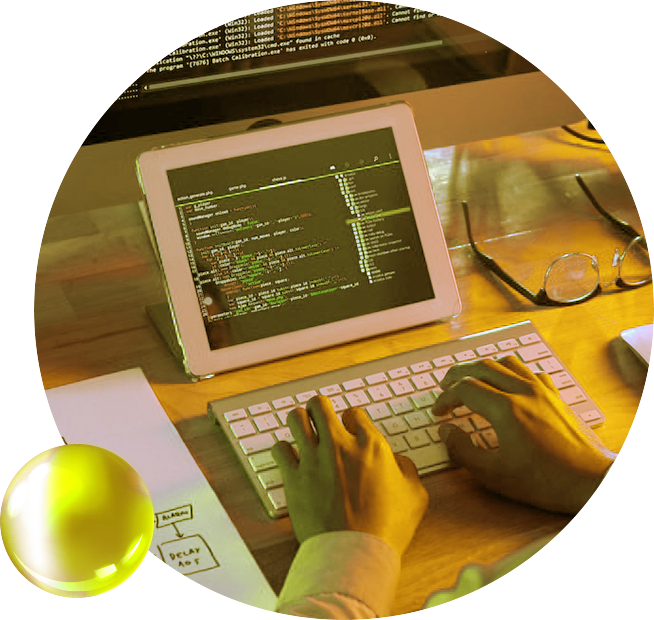
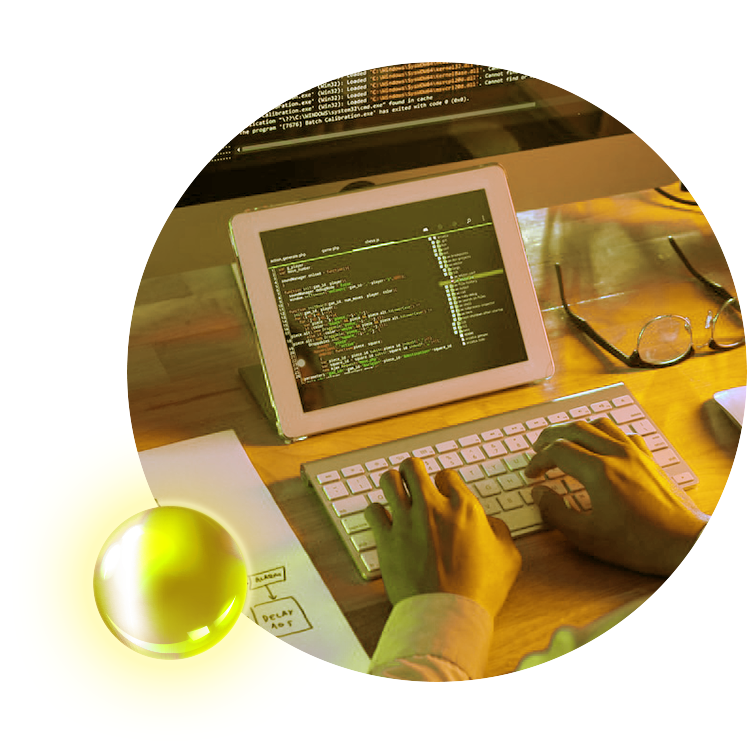
Update Image size and Position + Color Link MyTodoList

diff --git a/src/app/page.tsx b/src/app/page.tsx
@@ -42,8 +42,10 @@ export default function Home() {
       <div id="abouthome" className=" lg:flex 
                                       items-start
                                       w-full
-                                      lg:flex items-start w-full h-[600px] sm:h-[500px] md:h-[550px] lg:h-0px]
-                                      md:pt-16"
+                                      lg:flex 
+                                      items-start 
+                                      w-full h-[600px] sm:h-[500px] md:h-[550px] lg:h-0px]
+                                      md:pt-0"
       >
 
         <div className="relative">
@@ -51,18 +53,18 @@ export default function Home() {
           <Image
             src="/img/img_a-propos.png"
             alt="À propos"
-            width={300}
-            height={280}
-            className=" sm:w-[400px] md:w-[350px]
-                        sm:h-[auto] md:h-[auto]
-                        sm:mr-[10rem] md:mr-[50rem]
-                        ml-[10%]"
+            width={500}
+            height={500}
+            className=" w-[400px] sm:w-[400px] md:w-[500px] lg:w-[500px]
+                        h-[auto] sm:h-[auto] md:h-[auto] lg:h-[auto]
+                        mr-[5rem] sm:mr-[10rem] md:mr-[50rem] lg:mr-[50rem]
+                        ml-[5%] sm:ml-[10%] md:ml-[5%] lg:ml-[0%]"
           />
 
           <h1 className=" absolute
                           z-10
-                          top-[-7%] sm:top-[-5%] md:top-[-20%] lg:top-[-25%]
-                          left-[20%] sm:left-[35%] md:left-[30%] lg:left-[30%]
+                          top-[-4%] sm:top-[-5%] md:top-[-5%] lg:top-[-5%]
+                          left-[30%] sm:left-[35%] md:left-[40%] lg:left-[30%]
                           text-[3rem] sm:text-[4rem] md:text-[5rem]
                           leading-tight
                           text-shadow
@@ -101,8 +103,8 @@ export default function Home() {
                         relative sm:relative md:relative lg:absolute
                         center
                         justify
-                        lg:top-[25%]
-                        left-[0%] sm:left-[0%] md:left-[0%] lg:left-[50%]                         
+                        lg:top-[30%]
+                        left-[0%] sm:left-[0%] md:left-[0%] lg:left-[54%]                         
                         px-12 sm:px-24 md:px-12
                         mt-6 sm:mt-8 md:mt-12"
           >
@@ -121,7 +123,7 @@ export default function Home() {
         </div>
         <DotsRectangle
           className=" w-[40%] sm:w-[40%] md:w-[40%] lg:w-[20%]                    
-                      mt-8 sm:mt-8 md:mt-8 lg:mt-96
+                      mt-8 sm:mt-8 md:mt-8 lg:mt-80
                       self-center
                       ml-auto"
           rows={3}

diff --git a/src/app/about/page.tsx b/src/app/about/page.tsx
@@ -77,7 +77,7 @@ export default function About() {
             href="https://www.mytodolist.tech"
             target="_blank"
             rel="noopener noreferrer"  // Security
-            className="text-pink-500 hover:underline"
+            className="text-navLinkHover hover:underline"
           >
             https://www.mytodolist.tech
           </a>
